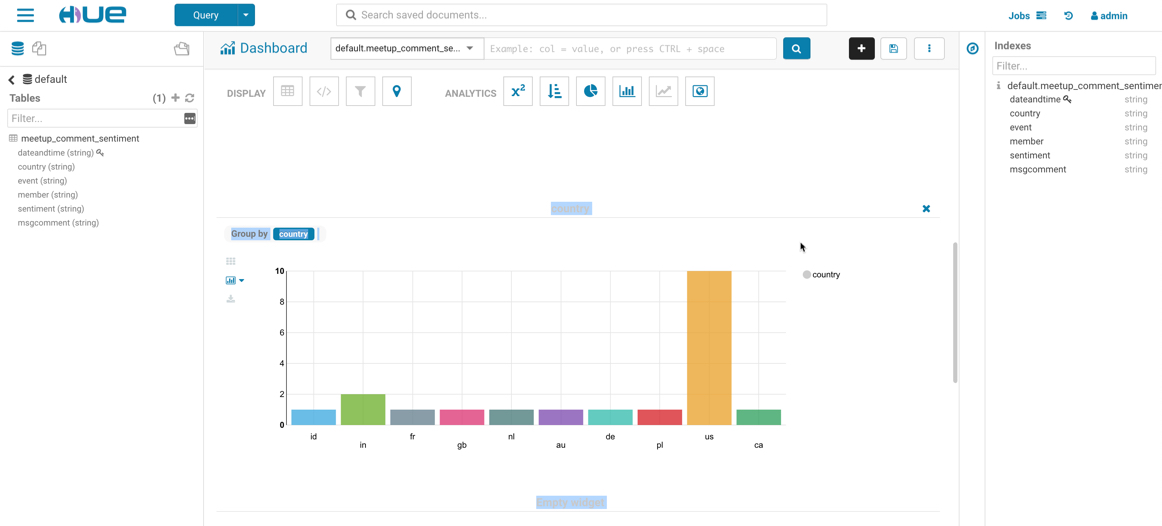
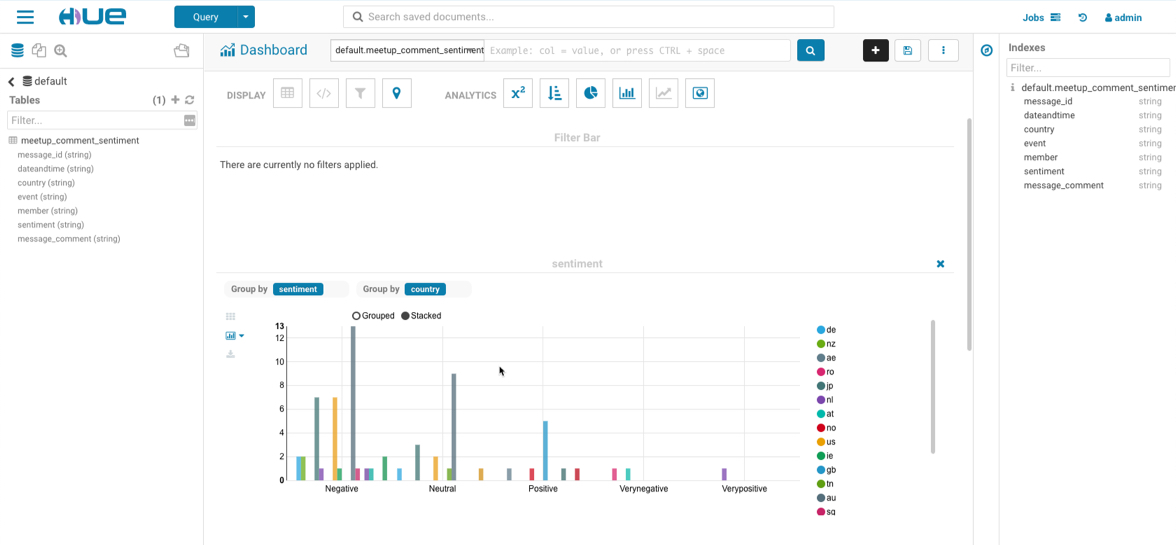
Nifi updates for pushing data to Kudu

diff --git a/README.md b/README.md
@@ -1,4 +1,4 @@
-# CDF-CDH Labs: Real-time sentiment analysis with NiFi, Kafka, Spark, Python, Kudu, Impala and Hue.
+# CDF-CDH Labs: Real-time sentiment analysis with NiFi, Kafka, Schema Registry, Streams Messaging Manager, Kudu, Impala and Hue.
 
 --
 
@@ -101,7 +101,6 @@ The following services are going to be installed, but initially only Cloudera Ma
 - Schema Registry: http://YOUR_PUBLIC_IP:7788/
 - Streams Messaging Manager: http://YOUR_PUBLIC_IP:9991/
 - HUE: http://YOUR_PUBLIC_IP:8888
-- CDSW : cdsw.'public-ip of aws instance'.nip.io
 
 Login to **Cloudera Manager** with username/password ```admin/admin```, and familiarize yourself with all the services installed.  For the first startup, especially for CDSW, it could take up to 20 mins. 
 
@@ -280,7 +279,7 @@ Let's get started... Open the **NiFi UI** and follow the steps below:
 		- timestamp: ```$.mtime```
 		- member: ```$.member.member_name```
 		- country: ```$.group.country```
-		- comment: ```$.comment```
+		- message_comment: ```$.comment```
 	- The message coming out of the processor would look like this:
 
 	```
@@ -293,7 +292,7 @@ Let's get started... Open the **NiFi UI** and follow the steps below:
 	- Double click to open the processor. 
 	- On settings tab, select **failure** relationship
 	- Change **Destination** value to **flowfile-content**
-	- Change **Attribute List** value to write only the above parsed attributes: **timestamp,event,member,country,comment**
+	- Change **Attribute List** value to write only the above parsed attributes: **timestamp,event,member,country,message_comment**
 	- Set **Include Schema** to **true**
 	- Apply changes
 	- Link AttributesToCSV with EvaluateJsonPath on **matched** relationship
@@ -465,7 +464,7 @@ Go back to [NiFi UI](http://demo.cloudera.com:9090/nifi/) and follow the steps b
   - Add ReplaceText processor and link from EvaluateJSonPath on **matched** relationship
   - Double click on processor and check **failure** on settings tab
   - Go to properties tab and remove value for **Search Value** and set it to empty string
-  - Set **Replacement Value** with value: ```${comment:replaceAll('\\.', ';')}```. We want to make sure the entire comment is evaluated as one sentence instead of one evaluation per sentence within the same comment.
+  - Set **Replacement Value** with value: ```${message_comment:replaceAll('\\.', ';')}```. We want to make sure the entire comment is evaluated as one sentence instead of one evaluation per sentence within the same comment.
   - Set **Replacement Strategy** to **Always Replace**
   - Apply changes
 
@@ -506,7 +505,7 @@ Go back to [NiFi UI](http://demo.cloudera.com:9090/nifi/) and follow the steps b
   - Double click on processor
   - On settings tab, check **failure** relationship
   - Go to properties tab
-  - In the Attributes List value set `dateandtime, country, event, member, sentiment, comment, message_id`. We will match this structure later in the table that we will create in Kudu.
+  - In the Attributes List value set `dateandtime, country, event, member, sentiment, message_comment, message_id`. We will match this structure later in the table that we will create in Kudu.
   - Change Destination to **flowfile-content**
   - Set Include Core Attributes to **false**
   - Apply changes
@@ -636,7 +635,7 @@ We will now setup a Kudu table with the same schema that we are using in Step 6 
    	event string,
    	member string,
    	sentiment string,
-   	msgcomment string,
+   	message_comment string,
    	 PRIMARY KEY (message_id)
    	)
    	PARTITION BY HASH PARTITIONS 10
@@ -663,10 +662,10 @@ When the meetup data was sent to Kafka using the *PublishKafkaRecord* processor,
 - Properties:
 	
 	```
-	Kafka Broker: 			YOUR_PUBLIC_IP: 9092
+	Kafka Broker: 			internal_ip: 9092
 	Topic Name(s):			meetup_comment_ws
 	Topic Name Format:	names
-	Record Reader:			JsonTreeReader - With schema identifier
+	Record Reader:			JsonTreeReader
 	Record Writer:			JsonRecordSetWriter
 	Honor Transactions:	false
 	Group ID:						nifi-message-consumer
@@ -674,26 +673,27 @@ When the meetup data was sent to Kafka using the *PublishKafkaRecord* processor,
 	Headers to Add as attributes (Regex):		schema.*
 	```
 	
-- We will be using Spark to execute the following script which will 
+	![](./images/nifi_kudu_a.jpg)
 	
-	- Read data from Kakfa Topic
-	- Write this data to Kudu Table we created
+- Add a PutKudu processor to the canvas and configure it as follows:
 	
-- To execute the Spark process, type the following:
-
-		$ ./spark_kudu.sh
+- Properties:
 	
-- This executes the following command line:
-
-		spark-submit --master local[2] --jars kudu-spark2_2.11-1.9.0.jar,spark-core_2.11-1.5.2.logging.jar --packages org.apache.spark:spark-streaming-kafka_2.11:1.6.3 spark_kudu.py
+	```
+	Kudu Masters:			internal_ip:7051
+	Table Name:				impala::default.meetup_comment_sentiment
+	Record Reader: 		JsonTreeReader
+	```
 	
-- The pySpark code is available in the scripts directory [here](./scripts/spark_kudu.py)
+	![](./images/nifi_kudu_b.jpg)
+	
+- Connect the **ConsumeKafkaRecord_2_0** processor to the **PutKudu** one. When prompted, check the **success** relationship for this connection.
+	
+- Double-click on the **PutKudu** processor, go to the **SETTINGS** tab, check the "**success**" relationship in the **AUTOMATICALLY TERMINATED RELATIONSHIPS** section. Click **Apply**.
 
-- On execution, the spark job will start and the data will start showing up in Kudu. 
+- This section looks as follows:
 
-![Link Processor](./images/spark_job.jpg)
-
-- We will check the data being written by Spark by using Hue, in the next segment.
+   ![](./images/nifi_kudu_c.jpg)
 
 [Back to Index](#content)
 
